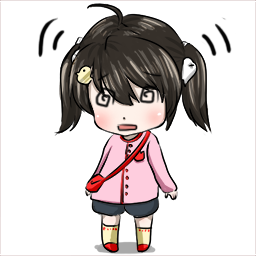
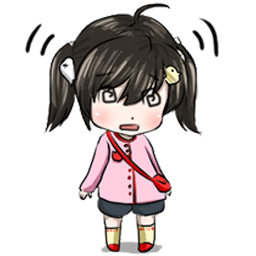
幼女反転処理＆うがい音バグ修正

Changed region(s): [[0.0, 0.0, 1.0, 1.0]]

diff --git a/ToothBrushGame/Classes/GameMainScene.cpp b/ToothBrushGame/Classes/GameMainScene.cpp
@@ -390,7 +390,7 @@ void GameMainScene::onTouchMoved(Touch* pTouch,Event* pEvent)
         }
         //SE
         SimpleAudioEngine::getInstance()->setEffectsVolume(SE_VOLUME_MAX);
-        SimpleAudioEngine::getInstance()->playEffect(SE_SHAKE_2);
+        SimpleAudioEngine::getInstance()->playEffect(SE_SHAKE_1);
         m_nUgaiCounter = 1;
     }
 }
